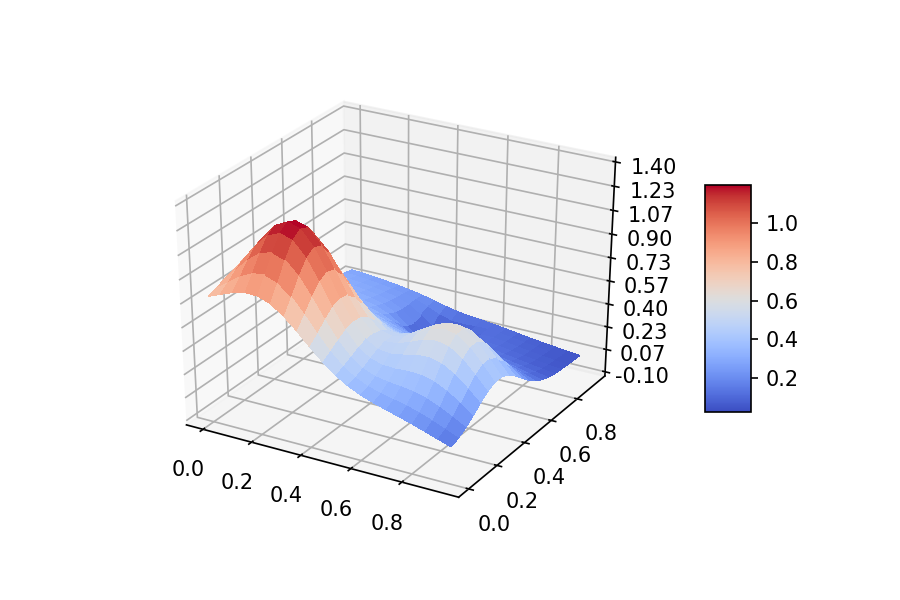
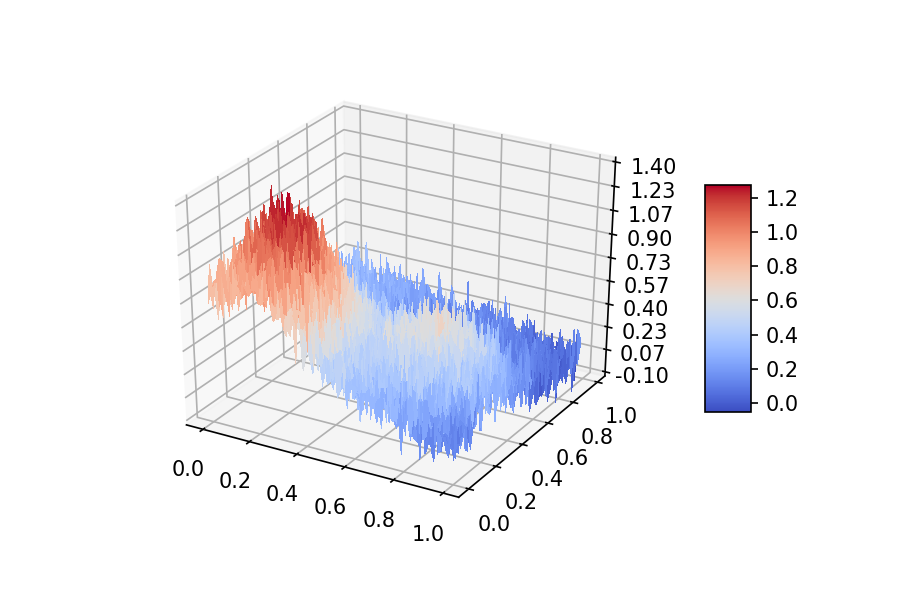
update

diff --git a/Project1/OLS_loop.py b/Project1/OLS_loop.py
@@ -1,0 +1,144 @@
+###This program performs Ordinary least square regression on a synthetic dataset generated by the Franke Function
+###and returns model evalutation (MSE and R2) and optimal predictor
+###The loop is on polynomial degree
+###Author: R Corseri
+
+
+import numpy as np
+import matplotlib.pyplot as plt
+from sklearn.model_selection import train_test_split
+from sklearn.linear_model import LinearRegression, Ridge, Lasso
+from sklearn.preprocessing import PolynomialFeatures, StandardScaler
+from sklearn.pipeline import Pipeline
+
+import FrankeFunction as FF
+import Calculate_MSE_R2 as error
+
+
+# Generate dataset with n observations
+
+n = 50
+
+x1 = np.random.uniform(0,1,n)
+x2 = np.random.uniform(0,1,n)
+#x1 = np.linspace(0, 1, n)
+#x2 = np.linspace(0, 1, n)
+
+
+
+y = FF.FrankeFunction(x1,x2)
+#add normally distributed noise N(0,1)
+#y = FF.FrankeFunction(x1,x2)+np.random.normal(0,0.1,n)
+
+
+x1 = np.array(x1).reshape(n,1)
+x2 = np.array(x2).reshape(n,1)
+
+x = np.hstack((x1,x2)).reshape(n,2)
+
+y = np.array(y).reshape(n,1)
+
+
+#Split train (80%) and test(20%) data before looping on polynomial degree
+x_train, x_test, y_train, y_test = train_test_split(x, y, test_size=0.2)
+
+
+#Scaling data
+scaler = StandardScaler()
+x_train = scaler.fit_transform(x_train)
+x_test = scaler.fit_transform(x_test)
+#
+##x_train = x_train - np.mean(x_train, axis=0)
+##x_test = x_test - np.mean(x_train,axis=0)
+#
+y_train = (y_train-np.mean(y_train))/np.std(y_train)
+y_test= (y_test-np.mean(y_test))/np.std(y_test)
+
+#Define maximal model complexity
+maxdegree= 5
+
+#Initialize before looping:
+TestError = np.zeros(maxdegree+1)
+TrainError = np.zeros(maxdegree+1)
+TestR2 = np.zeros(maxdegree+1)
+TrainR2 = np.zeros(maxdegree+1)
+polydegree = np.zeros(maxdegree+1)
+predictor = []
+
+for degree in range(maxdegree+1):
+    
+    #perform polynomial regression with scikit-learn
+    model = Pipeline([('poly', PolynomialFeatures(degree=degree)),('linear',\
+                  LinearRegression(fit_intercept=False))])
+    model = model.fit(x_train,y_train)
+    
+    Beta = model.named_steps['linear'].coef_
+    predictor=np.append(predictor,Beta)
+
+
+    y_fit = model.predict(x_train)
+    y_pred = model.predict(x_test) 
+    
+#    y_fit = y_fit + np.mean(y_train)
+#    y_pred = y_pred + np.mean(y_train)
+#    y_test = y_test + np.mean(y_train)
+#    y_train = y_train + np.mean(y_train)
+
+    polydegree[degree] = degree
+    TestError[degree] = error.MSE(y_test,y_pred)
+    TrainError[degree] = error.MSE(y_train,y_fit)
+    TestR2[degree] = error.R2(y_test,y_pred)
+    TrainR2[degree] = error.R2(y_train,y_fit)
+    
+    #Display regression results for each polynomial degree
+    print("\nModel complexity:")
+    print(degree)
+    print("\nOptimal estimator Beta")
+    print(Beta.shape)
+    print("\nTraining error")
+    print("MSE =",error.MSE(y_train,y_fit))
+    print("R2 =",error.R2(y_train,y_fit))
+    print("\nTesting error")
+    print("MSE =",error.MSE(y_test,y_pred))
+    print("R2  =",error.R2(y_test,y_pred))
+
+
+#####Plots####
+    
+#MSE
+plt.plot(polydegree, TestError,'r-o' , label='Test MSError')
+plt.plot(polydegree, TrainError,'b-o', label='Train MSError')
+
+plt.xlabel("model complexity (degree)")
+plt.ylabel("Mean squared error")
+plt.legend()
+plt.savefig("Results/MSE_vs_complexity.png",dpi=150)
+plt.show()
+
+#R2 score
+plt.plot(polydegree, TestR2,'r-d', label='Test R2')
+plt.plot(polydegree, TrainR2, 'b-d',label='Train R2')
+plt.xticks(np.arange(1, 6, step=1))  # Set label locations.
+plt.xlabel("model complexity (degree)")
+plt.ylabel("R2 score")
+plt.legend()
+plt.savefig("Results/R2_vs_complexity.png",dpi=150)
+plt.show()
+
+#Beta coefficients
+print(predictor.shape)
+
+plt.plot(predictor[0],'md-' , label='degree=0')
+plt.plot(predictor[1:4],'r-*' , label='degree=1')
+plt.plot(predictor[4:10],'b-*' , label='degree=2')
+plt.plot(predictor[10:20],'g*-' , label='degree=3')
+plt.plot(predictor[20:35],'y*-' , label='degree=4')
+plt.plot(predictor[35:56],'k*-' , label='degree=5')
+
+
+locs, labels = plt.xticks()  # Get the current locations and labels.
+plt.xticks(np.arange(0, 1, step=1))  # Set label locations.
+plt.xticks(np.arange(21), [r'$\beta_0$', r'$\beta_1$', r'$\beta_2$', \
+           r'$\beta_3$', r'$\beta_4$', r'$\beta_5$', \
+           r'$\beta_6$', r'$\beta_7$', r'$\beta_8$', \
+           

diff --git a/Project1/OLS.py b/Project1/OLS.py
@@ -1,14 +1,74 @@
 import numpy as np
 import matplotlib.pyplot as plt
 from sklearn.model_selection import train_test_split
-from sklearn import linear_model
+from sklearn.linear_model import LinearRegression, Ridge, Lasso
+from sklearn.preprocessing import PolynomialFeatures, StandardScaler
+from sklearn.pipeline import Pipeline
+
+
 import FrankeFunction as FF
 import Calculate_MSE_R2 as error
 
 
 # Make data set.
-n = 1000
+n = 100
 
-x = np.random.rand(n)
-y = np.random.rand(n)
-dataset = FF.Frank
+x1 = np.random.uniform(0,1,n)
+x2 = np.random.uniform(0,1,n)
+
+y = FF.FrankeFunction(x1,x2)#+np.random.normal(0,1,n)
+
+x1 = np.array(x1).reshape(n,1)
+x2 = np.array(x2).reshape(n,1)
+
+x = np.hstack((x1,x2)).reshape(n,2)
+
+
+
+#Split train (80%) and test(20%) data before looping on polynomial degree
+x_train, x_test, y_train, y_test = train_test_split(x, y, test_size=0.2)
+
+#Scaling
+scaler = StandardScaler()
+x_train = scaler.fit_transform(x_train)
+x_test = scaler.fit_transform(x_test)
+
+y_train = (y_train-np.mean(y_train))/np.std(y_train)
+y_test= (y_test-np.mean(y_test))/np.std(y_test)
+
+#Perform polynomial regression using scikit-learn
+#Define maximal model complexity
+maxdegree= 1
+
+model = Pipeline([('poly', PolynomialFeatures(degree=maxdegree)),('linear',\
+                  LinearRegression(fit_intercept=False))])
+model = model.fit(x_train,y_train)
+Beta = model.named_steps['linear'].coef_
+
+y_fit = model.predict(x_train)
+y_pred = model.predict(x_test) 
+
+
+print("\nOptimal estimator Beta")
+print(Beta)
+
+print("\n\nTraining error")
+print("MSE =",error.MSE(y_train,y_fit))
+print("R2 =",error.R2(y_train,y_fit))
+
+print("\nTesting error")
+print("MSE =",error.MSE(y_test,y_pred))
+print("R2  =",error.R2(y_test,y_pred))
+
+
+
+
+
+
+
+
+
+
+
+
+

diff --git a/Project1/FrankeFunction.py b/Project1/FrankeFunction.py
@@ -1,5 +1,4 @@
 #Definition of the Franke Function
-#To add random noise, uncomment the last term5
 
 import numpy as np
 
@@ -8,4 +7,12 @@ def FrankeFunction(x,y):
 	term1 = 0.75*np.exp(-(0.25*(9*x-2)**2) - 0.25*((9*y-2)**2))
 	term2 = 0.75*np.exp(-((9*x+1)**2)/49.0 - 0.1*(9*y+1))
 	term3 = 0.5*np.exp(-(9*x-7)**2/4.0 - 0.25*((9*y-3)**2))
-	term4 = -0.2*np.exp(-(9*x-4)**2 - (
+	term4 = -0.2*np.exp(-(9*x-4)**2 - (9*y-7)**2)
+	return term1 + term2 + term3 + term4 
+
+def FrankeFunction_noisy(x,y):
+    term1 = 0.75*np.exp(-(0.25*(9*x-2)**2) - 0.25*((9*y-2)**2))
+    term2 = 0.75*np.exp(-((9*x+1)**2)/49.0 - 0.1*(9*y+1))
+    term3 = 0.5*np.exp(-(9*x-7)**2/4.0 - 0.25*((9*y-3)**2))
+    term4 = -0.2*np.exp(-(9*x-4)**2 - (9*y-7)**2)
+    return term1 + term2 + term3 + term4 + np.random.normal(0,1,(len(x),len(y)))

diff --git a/Project1/Calculate_MSE_R2.py b/Project1/Calculate_MSE_R2.py
@@ -7,4 +7,6 @@ def R2(y_data, y_model):
 
 def MSE(y_data,y_model):
     n = np.size(y_model)
-    return np.sum((y_da
+    return np.sum((y_data-y_model)**2)/n
+
+
